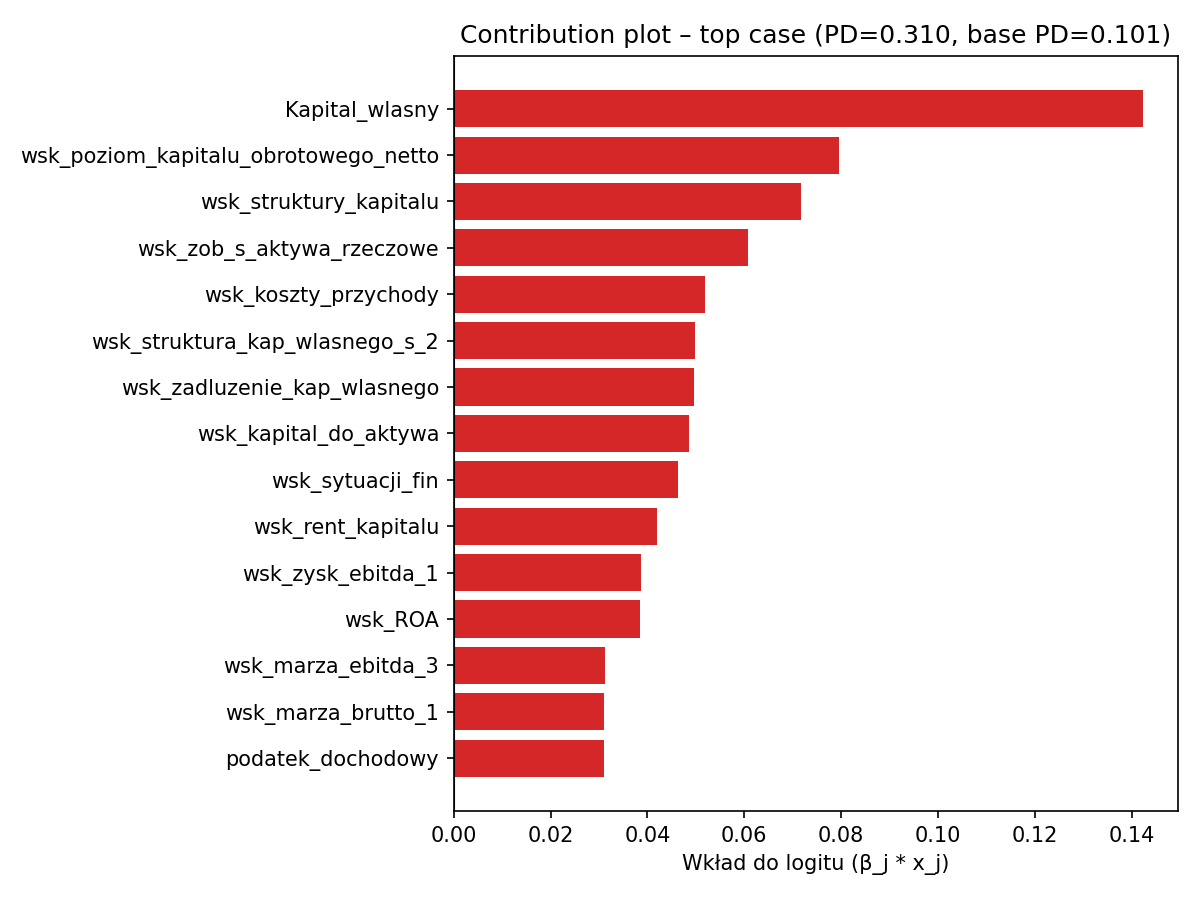
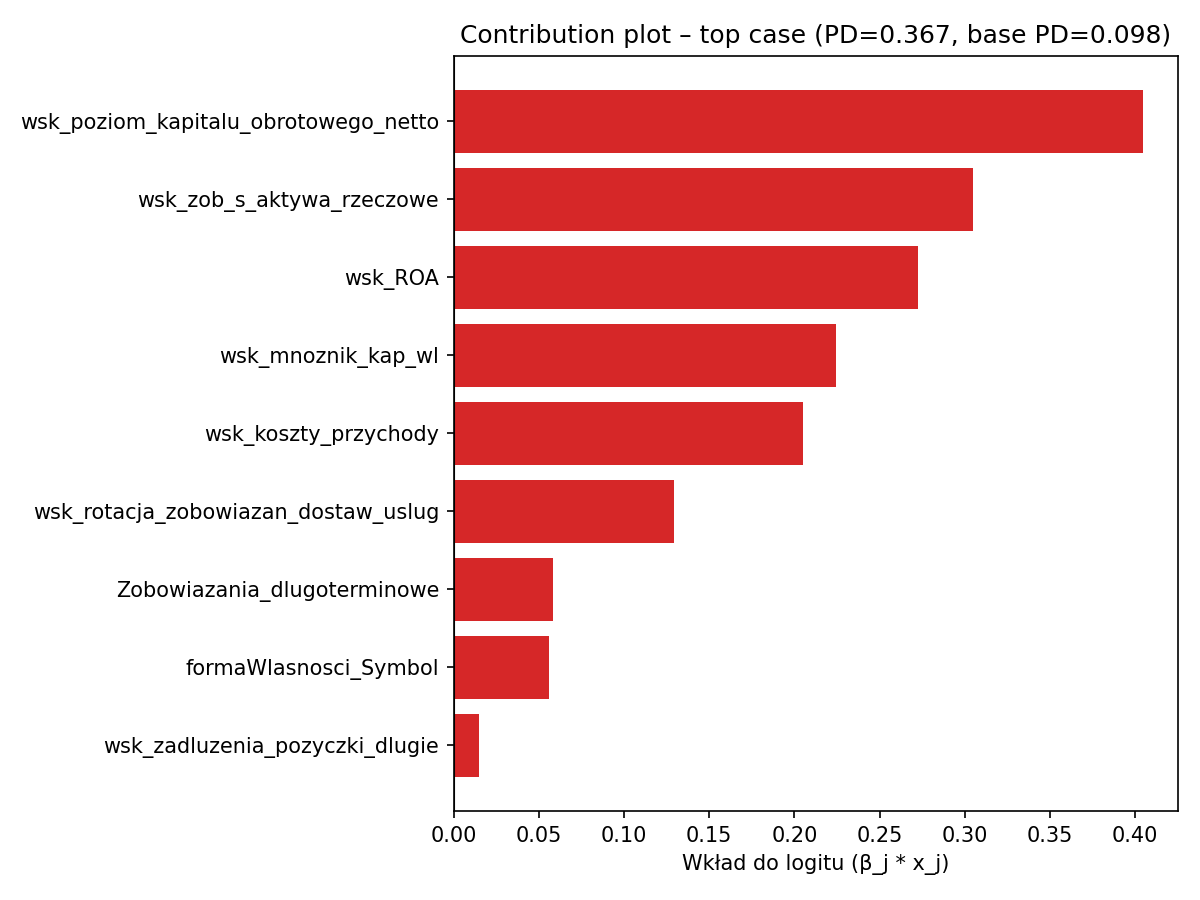
wygenerowanie wykresow interpretowalnych dla nowego logitu z 9 zmiennymi

diff --git a/Modele_interpretowalne/interpretowalnosc_regresja_logistyczna.py b/Modele_interpretowalne/interpretowalnosc_regresja_logistyczna.py
@@ -25,7 +25,9 @@ PREPROC_LOGIT_PATH = os.path.join(PREPROC_DIR, "preprocessing_logit_woe.pkl")
 WYKRESY_DIR = os.path.join(INTERP_DIR, "waznosc_cech")
 PDP_DIR = os.path.join(INTERP_DIR, "PDP")
 ICE_DIR = os.path.join(INTERP_DIR, "ICE")
+WOE_PROFILS = os.path.join(INTERP_DIR, "woe_profils")
 
+os.makedirs(WOE_PROFILS, exist_ok=True)
 os.makedirs(INTERP_DIR, exist_ok=True)
 os.makedirs(WYKRESY_DIR, exist_ok=True)
 os.makedirs(PDP_DIR, exist_ok=True)
@@ -184,7 +186,7 @@ def plot_woe_profile(X_woe, y, feature, save_path):
 def generate_woe_profiles(df_coef, X_woe, y):
     """Rysuje:
        • profil dla jednej cechy z beta > 0 (jeśli istnieje),
-       • profile dla 5 cech z największym |beta| i znakiem negative.
+       • profile dla 9 cech z największym |beta| i znakiem negative.
     """
     # cecha z dodatnią betą (jeśli jest)
     df_pos = df_coef[df_coef["sign"] == "positive"]
@@ -199,8 +201,8 @@ def generate_woe_profiles(df_coef, X_woe, y):
         print("\nℹ Brak cech z dodatnią betą – nie rysuję osobnego profilu dla beta > 0.")
 
     # top-5 cech z ujemną betą wg |beta|
-    df_neg = df_coef[df_coef["sign"] == "negative"].head(5)
-    print("\n📈 Profile WoE dla 5 cech z największym |beta| (beta < 0):")
+    df_neg = df_coef[df_coef["sign"] == "negative"].head(9)
+    print("\n📈 Profile WoE dla 9 cech z największym |beta| (beta < 0):")
     for feat in df_neg["feature"]:
         save_path = os.path.join(INTERP_DIR,"woe_profils", f"woe_profile_top_negative_{feat}.png")
         plot_woe_profile(X_woe, y, feat, save_path)
@@ -345,7 +347,7 @@ def diagnose_bin_sizes(df_coef, n_top=5, min_count=50):
 #                RANKING CECH I CONTRIBUTION PLOT
 # ============================================================
 
-def plot_beta_importance(df_coef, top_n=20):
+def plot_beta_importance(df_coef, top_n=9):
     """Wykres słupkowy top_n cech wg |beta|."""
     df_top = df_coef.head(top_n).iloc[::-1]  # od najmniejszej do największej na osi Y
 
@@ -476,7 +478,7 @@ def plot_ice(grid, ice_curves, feature):
     print(f"   ➜ zapisano ICE: {out_path}")
 
 
-def generate_pdp_ice_for_top_features(df_coef, X_woe, y, logit, top_n=5):
+def generate_pdp_ice_for_top_features(df_coef, X_woe, y, logit, top_n=9):
     """PDP + ICE dla top_n cech wg |beta| (niezależnie od znaku)."""
     df_top = df_coef.head(top_n)
     print(f"\n📈 PDP i ICE dla top {top_n} cech wg |beta|:")
@@ -616,7 +618,7 @@ def compute_local_decomposition_for_9_cases(logit, df_coef):
       - dla każdego case'a rozkłada logit na wkłady cech,
       - zapisuje:
           * local_cases_meta.csv – 9 wierszy (case_id, index, y_true, logit, pd)
-          * local_cases_top10_contributions.csv – top 10 cech dla każdego case'a
+          * local_cases_top10_contributions.csv – top 9 cech dla każdego case'a
     """
     print("\n🧩 Liczę lokalną interpretację (9 przypadków)...")
 
@@ -655,8 +657,8 @@ def compute_local_decomposition_for_9_cases(logit, df_coef):
             on="feature",
         )
 
-        # bierzemy top 10 cech
-        df_top10 = df_contrib.head(10).copy()
+        # bierzemy top 9 cech
+        df_top10 = df_contrib.head(9).copy()
         df_top10["case_id"] = case_id
         df_top10["original_index"] = int(idx)
         df_top10["rank"] = np.arange(1, len(df_top10) + 1)
@@ -679,7 +681,7 @@ def compute_local_decomposition_for_9_cases(logit, df_coef):
     df_all_top10 = pd.concat(all_top10_rows, ignore_index=True)
     contrib_path = os.path.join(INTERP_LOCAL_DIR, "local_cases_top10_contributions.csv")
     df_all_top10.to_csv(contrib_path, index=False)
-    print(f"💾 Zapisano top 10 wkładów cech dla 9 przypadków → {contrib_path}")
+    print(f"💾 Zapisano top 9 wkładów cech dla 9 przypadków → {contrib_path}")
 
 
 # ============================================================
@@ -698,8 +700,8 @@ def main():
     summarize_signs(df_coef, intercept)
     save_coefficients(df_coef)
 
-    print("\nTop 10 cech wg |beta|:")
-    print(df_coef.head(10).to_string(index=False))
+    print("\nTop 9 cech wg |beta|:")
+    print(df_coef.head(9).to_string(index=False))
 
     print("\n📂 Przygotowywanie danych (WoE)...")
     X_woe, y = load_and_prepare_data(preproc_logit, logit)
@@ -708,17 +710,17 @@ def main():
     generate_woe_profiles(df_coef, X_woe, y)
 
     # ---------- Ranking cech ----------
-    plot_beta_importance(df_coef, top_n=20)
+    plot_beta_importance(df_coef, top_n=9)
 
     # ---------- Contribution plot ----------
     plot_contribution_for_top_case(df_coef, intercept, X_woe, y, logit)
 
     # ---------- PDP + ICE ----------
-    generate_pdp_ice_for_top_features(df_coef, X_woe, y, logit, top_n=5)
+    generate_pdp_ice_for_top_features(df_coef, X_woe, y, logit, top_n=9)
 
     print("\n✅ Zakończono generowanie wykresów interpretowalności logitu.")
     
-    diagnose_bin_sizes(df_coef, n_top=5, min_count=50)
+    diagnose_bin_sizes(df_coef, n_top=9, min_count=50)
     
     # Lokalna interpretacja – 5 obserwacji
     compute_local_decomposition_for_9_cases(logit, df_coef)

diff --git a/Modele_interpretowalne/interpretowalnosc_logit/interpretowalnosc_lokalna/wykresy_interpretacji_lokalnej.py b/Modele_interpretowalne/interpretowalnosc_logit/interpretowalnosc_lokalna/wykresy_interpretacji_lokalnej.py
@@ -47,7 +47,7 @@ def load_local_data():
 def plot_single_case_bar(df_case, meta_row, save_path):
     """
     Rysuje wykres słupkowy wkładów cech do logitu dla pojedynczego case'a.
-    df_case – wiersze dla jednego case_id (top 10 cech),
+    df_case – wiersze dla jednego case_id (top 9 cech),
     meta_row – Series z informacjami: case_id, original_index, y_true, logit, pd
     """
     # sortujemy tak, aby najbardziej wpływowe cechy były na górze
@@ -83,7 +83,7 @@ def plot_single_case_bar(df_case, meta_row, save_path):
 
 def generate_per_case_plots(df_meta, df_contrib):
     """
-    Generuje po jednym wykresie dla każdego z 9 case'ów (top 10 cech).
+    Generuje po jednym wykresie dla każdego z 9 case'ów (top 9 cech).
     """
     for _, meta_row in df_meta.sort_values("case_id").iterrows():
         case_id = int(meta_row["case_id"])
@@ -91,7 +91,7 @@ def generate_per_case_plots(df_meta, df_contrib):
 
         df_case = df_contrib[df_contrib["case_id"] == case_id].copy()
 
-        fname = f"case_{case_id}_idx_{idx}_top10_contributions.png"
+        fname = f"case_{case_id}_idx_{idx}_top9_contributions.png"
         save_path = os.path.join(PLOTS_CASE_DIR, fname)
 
         plot_single_case_bar(df_case, meta_row, save_path)
@@ -102,7 +102,7 @@ def generate_per_case_plots(df_meta, df_contrib):
 #     Zbiorczy wykres 3×3 – 9 case'ów, kolor = gradient po PD
 # ============================================================
 
-def plot_grid_cases(df_meta, df_contrib, n_per_case=10):
+def plot_grid_cases(df_meta, df_contrib, n_per_case=9):
     """
     Tworzy zbiorczy wykres 3x3:
       - każdy subplot to top 10 wkładów dla danego case'a,
@@ -181,7 +181,7 @@ def main():
     generate_per_case_plots(df_meta, df_contrib)
 
     print("🖼 Rysuję zbiorczy wykres 3x3 z gradientem po PD...")
-    plot_grid_cases(df_meta, df_contrib, n_per_case=10)
+    plot_grid_cases(df_meta, df_contrib, n_per_case=9)
 
     print("✅ Gotowe – lokalna interpretacja zwizualizowana.")
 
